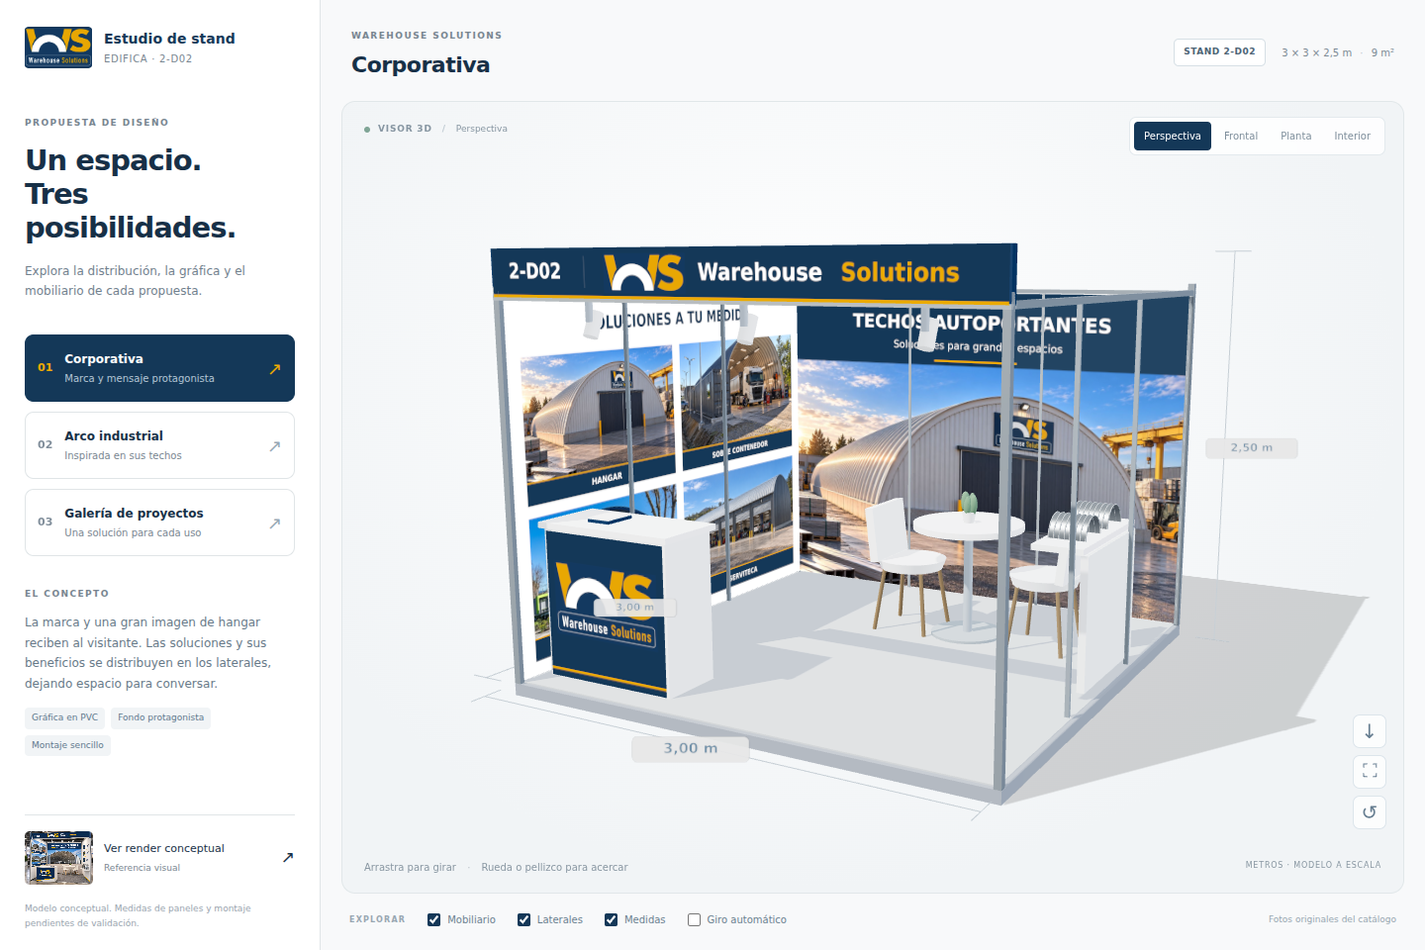
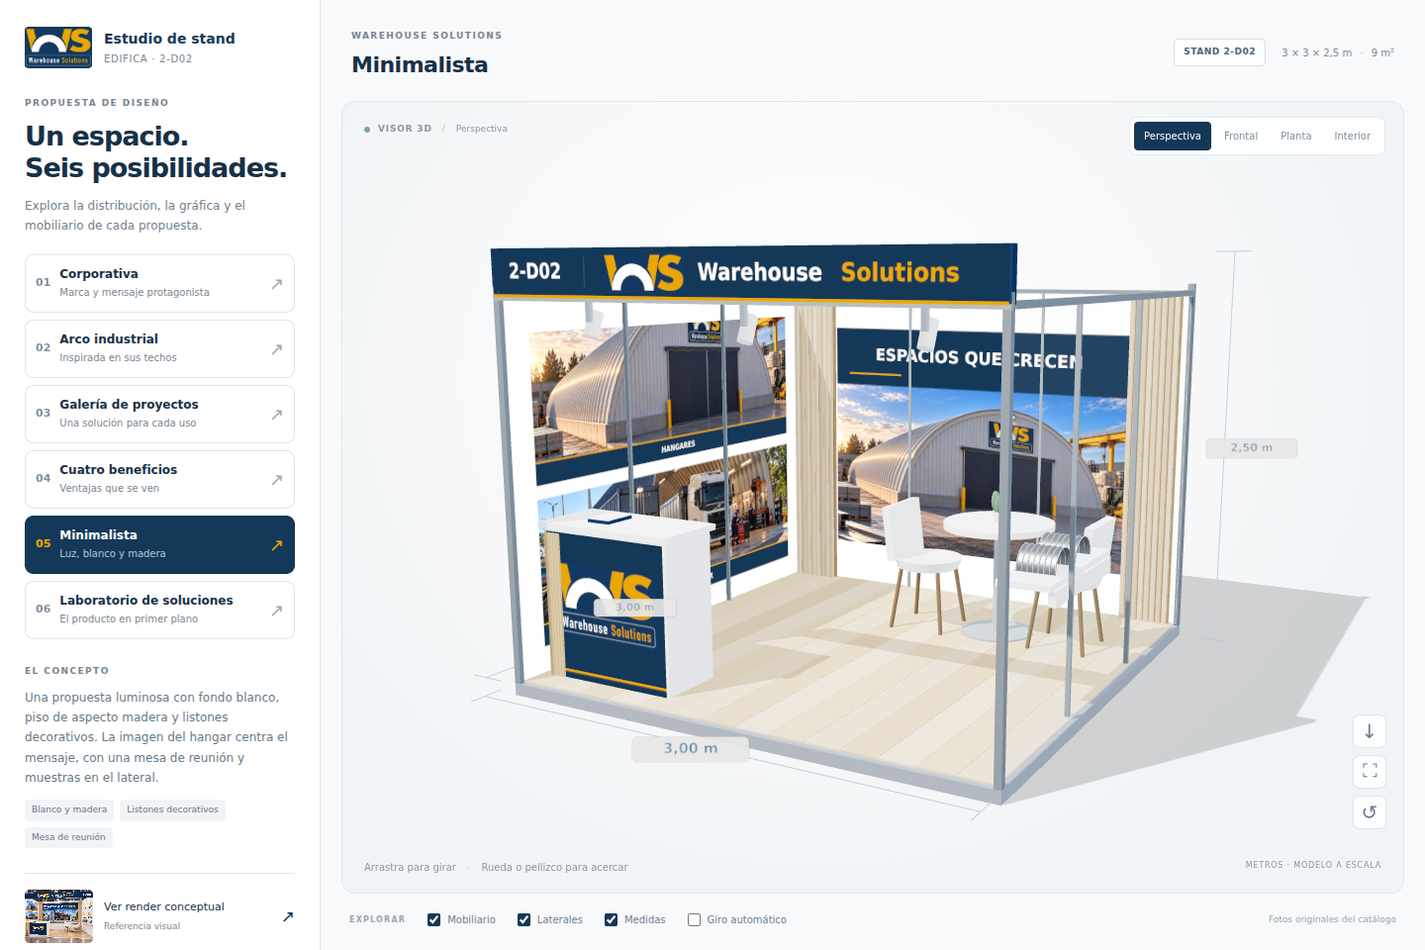
Añadir seis propuestas de stand con nuevos renders y modelos 3D

diff --git a/main.js b/main.js
@@ -1,6 +1,6 @@
 import * as THREE from 'three';
 import { OrbitControls } from './assets/vendor/OrbitControls.js';
-import { brand, photos, proposals } from './config.js';
+import { brand, photos, benefits, proposals } from './config.js?v=1.2';
 
 const $ = (id) => document.getElementById(id);
 const container = $('viewer');
@@ -64,7 +64,110 @@ function tile(ctx, photo, title, x, y, w, h) {
   ctx.fillStyle = YELLOW; ctx.fillRect(x, y + h - 76, w, 5);
   text(ctx, title, x + w / 2, y + h - 33, Math.min(31, w / 12), '#fff', 650, 'center');
 }
+function wrappedText(ctx, value, x, y, width, size, color, weight = 500) {
+  ctx.font = `${weight} ${size}px Arial, sans-serif`;
+  let line = '';
+  for (const word of value.split(' ')) {
+    const next = line ? `${line} ${word}` : word;
+    if (line && ctx.measureText(next).width > width) {
+      text(ctx, line, x, y, size, color, weight); y += size * 1.25; line = word;
+    } else line = next;
+  }
+  text(ctx, line, x, y, size, color, weight);
+  return y + size * 1.25;
+}
+function benefitIcon(ctx, kind, x, y, size) {
+  ctx.save(); ctx.translate(x, y); ctx.scale(size / 100, size / 100);
+  ctx.strokeStyle = YELLOW; ctx.fillStyle = YELLOW; ctx.lineWidth = 6;
+  ctx.lineJoin = 'round'; ctx.lineCap = 'round'; ctx.beginPath();
+  if (kind === 'bolt') {
+    ctx.moveTo(14,-48);ctx.lineTo(-32,9);ctx.lineTo(-6,9);ctx.lineTo(-20,49);ctx.lineTo(35,-12);ctx.lineTo(7,-12);ctx.closePath();ctx.fill();
+  } else if (kind === 'space') {
+    ctx.strokeRect(-39,-39,78,78);
+    [[-23,23],[0,0],[23,-23]].forEach(([a,b])=>ctx.strokeRect(a-5,b-5,10,10));
+  } else if (kind === 'shield') {
+    ctx.moveTo(0,-45);ctx.quadraticCurveTo(20,-29,39,-28);ctx.lineTo(36,9);ctx.quadraticCurveTo(27,31,0,48);ctx.quadraticCurveTo(-27,31,-36,9);ctx.lineTo(-39,-28);ctx.quadraticCurveTo(-20,-29,0,-45);ctx.stroke();
+    ctx.beginPath();ctx.moveTo(-15,0);ctx.lineTo(-2,15);ctx.lineTo(20,-12);ctx.stroke();
+  } else {
+    ctx.moveTo(-43,42);ctx.lineTo(-43,-8);ctx.lineTo(0,-43);ctx.lineTo(43,-8);ctx.lineTo(43,42);ctx.closePath();ctx.stroke();
+    ctx.strokeRect(-23,-9,46,14);ctx.strokeRect(-22,17,44,25);
+    ctx.beginPath();ctx.moveTo(0,42);ctx.lineTo(0,22);ctx.stroke();
+  }
+  ctx.restore();
+}
+function benefitGrid(ctx, {x=80,y=240,w=1440,h=620,dark=false}={}) {
+  const color = dark ? '#fff' : NAVY, cw = w / 2, ch = h / 2;
+  benefits.forEach((item,i)=>{
+    const left=x+(i%2)*cw, top=y+Math.floor(i/2)*ch;
+    benefitIcon(ctx,item.icon,left+75,top+65,86);
+    const after=wrappedText(ctx,item.title,left+145,top+40,cw-170,43,color,700);
+    wrappedText(ctx,item.detail,left+145,Math.max(after+12,top+142),cw-180,31,dark?'#cddce9':'#5d7587');
+  });
+  ctx.fillStyle=dark?'#ffffff30':'#d9e1e7';ctx.fillRect(x+cw,y+5,2,h-25);ctx.fillRect(x,y+ch-15,w,2);
+}
+function newGraphic(which) {
+  const dark = current !== 'minimalista';
+  const [c,ctx] = canvas(1600,1200,dark?NAVY:'#fff');
+  if(current==='beneficios') {
+    if(which==='back') {
+      cover(ctx,assetImages.hangar,670,0,930,1200);
+      const fade=ctx.createLinearGradient(620,0,1300,0);fade.addColorStop(0,NAVY);fade.addColorStop(1,'#14385800');ctx.fillStyle=fade;ctx.fillRect(620,0,700,1200);
+      text(ctx,'SOLUCIONES QUE CONSTRUYEN',75,110,47,'#fff',700);
+      benefits.forEach((item,i)=>{
+        const y=295+i*225;benefitIcon(ctx,item.icon,115,y,92);
+        text(ctx,item.title,205,y-20,45,'#fff',700);
+        wrappedText(ctx,item.detail,205,y+43,650,33,'#e3edf5');
+      });
+    } else if(which==='left') {
+      tile(ctx,'hangar','HANGARES',65,60,1470,510);
+      tile(ctx,'contenedor','SOBRE CONTENEDOR',65,620,1470,515);
+    } else {
+      text(ctx,'CUBIERTAS DEPORTIVAS',800,95,64,'#fff',700,'center');
+      cover(ctx,assetImages.cubierta,65,175,1470,650);
+      ctx.fillStyle=YELLOW;ctx.fillRect(65,825,1470,8);
+      text(ctx,'CONOCE NUESTRO MATERIAL',800,1110,46,'#fff',650,'center');
+    }
+  } else if(current==='minimalista') {
+    if(which==='back') {
+      ctx.fillStyle=NAVY;ctx.fillRect(195,145,1210,230);
+      text(ctx,'ESPACIOS QUE CRECEN',800,255,66,'#fff',700,'center');
+      ctx.fillStyle=YELLOW;ctx.fillRect(255,325,230,7);
+      cover(ctx,assetImages.hangar,195,375,1210,665);
+    } else if(which==='left') {
+      tile(ctx,'hangar','HANGARES',95,100,1410,485);
+      tile(ctx,'contenedor','SOBRE CONTENEDOR',95,630,1410,485);
+    } else {
+      text(ctx,'MÁS POSIBILIDADES',800,90,61,NAVY,700,'center');
+      benefitGrid(ctx,{x:70,y:185,w:1460,h:530});
+      ctx.fillStyle=YELLOW;ctx.fillRect(100,1070,1400,5);
+      text(ctx,'Soluciones a la medida de tu proyecto',800,1130,39,NAVY,450,'center');
+    }
+  } else {
+    if(which==='back') {
+      text(ctx,'INGENIERÍA A TU ALCANCE',800,115,74,'#fff',700,'center');
+      ctx.fillStyle=YELLOW;ctx.fillRect(420,188,760,6);
+      benefitGrid(ctx,{x:70,y:260,w:1460,h:585,dark:true});
+      // Esquema decorativo de módulos: no representa un plano constructivo.
+      ctx.strokeStyle='#7195b3';ctx.lineWidth=2;
+      for(let i=0;i<4;i++) {
+        const x=230+i*365;
+        for(let j=0;j<4;j++) {ctx.beginPath();ctx.moveTo(x-125+j*14,1135-j*14);ctx.lineTo(x-125+j*14,1030-j*14);ctx.ellipse(x+j*14,1030-j*14,125,120,0,Math.PI,Math.PI*2);ctx.lineTo(x+125+j*14,1135-j*14);ctx.stroke();}
+      }
+    } else if(which==='left') {
+      text(ctx,'DEL DISEÑO AL MONTAJE',800,100,68,'#fff',700,'center');
+      ctx.fillStyle=YELLOW;ctx.fillRect(90,172,1420,8);
+      ctx.beginPath();ctx.moveTo(0,1200);ctx.lineTo(1600,390);ctx.lineTo(1600,570);ctx.lineTo(330,1200);ctx.fill();
+      text(ctx,'MATERIALES Y TERMINACIONES',800,1105,47,'#fff',650,'center');
+    } else {
+      text(ctx,'GRANDES ESPACIOS',800,110,86,'#fff',700,'center');
+      cover(ctx,assetImages.hangar,65,220,1470,860);
+      ctx.fillStyle=YELLOW;ctx.fillRect(65,212,1470,8);
+    }
+  }
+  return texture(c);
+}
 function graphic(which) {
+  if(['beneficios','minimalista','laboratorio'].includes(current))return newGraphic(which);
   const [c, ctx] = canvas(1600, 1200, current === 'arco' ? NAVY : '#fff');
   if (which === 'back' && current === 'corporativa') {
     ctx.fillStyle = NAVY; ctx.fillRect(0, 0, 1600, 282);
@@ -161,6 +264,9 @@ function counter(parent, right = false) {
   if (current === 'arco') box(parent, .014, .87, .39, x + .437, .51, z, YELLOW);
   box(parent, .15, .018, .20, x-.12, .997, z, NAVY);
   box(parent, .15, .008, .20, x-.12, 1.01, z, '#fafafa');
+  if(current==='minimalista') {
+    for(let i=0;i<5;i++)box(parent,.016,.84,.014,x-.402+i*.021,.51,z+.218,'#c4a478');
+  }
 }
 function sample(parent, x, y, z, size = .40, rotation = 0) {
   const g = new THREE.Group(); g.position.set(x, y, z); g.rotation.y = rotation; parent.add(g);
@@ -195,6 +301,37 @@ function arch(parent) {
     box(parent,.018,1.21,.008,sign*1.36,.675,1.452,YELLOW);
   }
 }
+function woodDetails(parent) {
+  const colors=['#d5ba93','#d9bf9c','#ceb18b','#dec6a4'];
+  for(let i=0;i<14;i++)box(parent,.207,.008,2.94,-1.365+i*.21,.080,0,colors[i%4],{roughness:.9});
+  for(const sign of [-1,1]) {
+    box(parent,.33,2.13,.026,sign*1.275,1.155,-1.426,'#9f825e');
+    for(let i=0;i<8;i++)box(parent,.025,2.13,.035,sign*(1.132+i*.041),1.155,-1.397,colors[i%4]);
+  }
+}
+function wallScreen(parent, sign=1, z=-.32, width=.94, height=.52) {
+  box(parent,.048,height,width,sign*1.414,1.49,z,'#202a33');
+  const [c,ctx]=canvas(1200,675,NAVY);cover(ctx,assetImages[sign<0?'contenedor':'serviteca'],0,0,1200,675);
+  plane(parent,width-.05,height-.05,sign*1.386,1.49,z,texture(c),sign<0?Math.PI/2:-Math.PI/2);
+}
+function sampleShelf(parent, sign=1, y=.91, z=-.20, count=2) {
+  box(parent,.30,.035,.94,sign*1.27,y,z,'#fff');
+  box(parent,.044,.09,.86,sign*1.415,y-.06,z,'#f6f7f8');
+  for(let i=0;i<count;i++)sample(parent,sign*1.26,y+.023,z+(i-(count-1)/2)*.30,.24,Math.PI/2);
+}
+function laboratoryFurniture(parent) {
+  wallScreen(parent,-1,-.25,1.17,.66);
+  sampleShelf(parent,-1,.99,-.25,3);sampleShelf(parent,-1,.61,-.25,2);
+  const pedestal=new THREE.Group();pedestal.name='Pedestal de demostración';parent.add(pedestal);
+  box(pedestal,.95,.83,.70,-.60,.485,.04,NAVY);
+  box(pedestal,.956,.075,.706,-.60,.64,.04,YELLOW);
+  box(pedestal,1,.04,.75,-.60,.92,.04,'#fff');
+  sample(pedestal,-.60,.945,.04,.74);
+  // Banco compacto contra el fondo, bajo la gráfica.
+  box(parent,.84,.32,.42,.82,.265,-1.16,'#f6f7f8');
+  box(parent,.86,.105,.44,.82,.477,-1.16,NAVY);
+  box(parent,.86,.36,.065,.82,.65,-1.345,NAVY);
+}
 function disposeGroup(g) {
   if (!g) return;
   const geos = new Set(), mats = new Set(), maps = new Set();
@@ -227,6 +364,7 @@ function build() {
   // La envolvente completa incluyendo la tarima y cenefa mide 3 × 3 × 2,5 m.
   box(booth,3,.07,3,0,.035,0,'#89909a',{roughness:1});
   box(booth,2.94,.008,2.94,0,.074,0,'#b3b8bd',{roughness:1});
+  if(current==='minimalista')woodDetails(booth);
   box(booth,2.96,2.15,.028,0,1.155,-1.477,'#f4f5f6');
   plane(booth,2.94,2.14,0,1.155,-1.459,graphic('back'));
   for (const sign of [-1,1]) {
@@ -249,12 +387,18 @@ function build() {
     const lamp = cylinder(booth,.04,.04,.14,x,2.10,1.28,'#fff');lamp.rotation.x = -.40;
   }
   if (current === 'arco') arch(booth);
-  counter(furniture,current==='galeria');
-  if(current==='galeria') {
+  counter(furniture,['galeria','beneficios','laboratorio'].includes(current));
+  if(current==='laboratorio') {
+    laboratoryFurniture(furniture);
+  } else if(current==='beneficios') {
+    table(furniture,.29,-.79);chair(furniture,-.17,-.74,Math.PI/2);chair(furniture,.79,-.74,-Math.PI/2);
+    sampleShelf(furniture,1,.79,.05,2);
+  } else if(current==='minimalista') {
+    table(furniture,.52,-.72);chair(furniture,.05,-.66,Math.PI/2);chair(furniture,1,-.67,-Math.PI/2);
+    sampleShelf(furniture,1,.82,.26,2);
+  } else if(current==='galeria') {
     table(furniture,-.64,-.62);chair(furniture,-1.01,-.20,-.50,NAVY);chair(furniture,-.15,-.72,-2.05,NAVY);
-    const screen = box(furniture,.048,.52,.94,1.414,1.46,-.32,'#202a33');
-    const [c,ctx]=canvas(1200,675,NAVY);cover(ctx,assetImages.serviteca,0,0,1200,675);
-    plane(furniture,.89,.47,1.386,1.46,-.32,texture(c),-Math.PI/2);
+    wallScreen(furniture);
     box(furniture,.29,.032,1.12,1.28,.95,-.32,'#fff');
     for(let i=0;i<3;i++)sample(furniture,1.27,.97,-.65+i*.33,.23,-Math.PI/2);
   } else {

diff --git a/index.html b/index.html
@@ -4,20 +4,23 @@
   <meta charset="utf-8">
   <meta name="viewport" content="width=device-width, initial-scale=1">
   <meta name="theme-color" content="#143858">
-  <meta name="description" content="Explora en 3D tres propuestas para el stand 2-D02 de Warehouse Solutions en EDIFICA.">
+  <meta name="description" content="Explora en 3D seis propuestas para el stand 2-D02 de Warehouse Solutions en EDIFICA.">
   <title>Warehouse Solutions · Stand EDIFICA 3D</title>
   <link rel="icon" href="assets/logo.jpg">
-  <link rel="stylesheet" href="styles.css?v=1.1">
+  <link rel="stylesheet" href="styles.css?v=1.2">
   <script type="importmap">{"imports":{"three":"./assets/vendor/three.module.js"}}</script>
 </head>
 <body>
   <aside class="sidebar">
     <a class="brand" href="./" aria-label="Warehouse Solutions, inicio"><img src="assets/logo.jpg" alt="Warehouse Solutions"><span>Estudio de stand<small>EDIFICA · 2-D02</small></span></a>
-    <div class="intro"><span class="eyebrow">PROPUESTA DE DISEÑO</span><h1>Un espacio.<br>Tres posibilidades.</h1><p>Explora la distribución, la gráfica y el mobiliario de cada propuesta.</p></div>
+    <div class="intro"><span class="eyebrow">PROPUESTA DE DISEÑO</span><h1>Un espacio.<br>Seis posibilidades.</h1><p>Explora la distribución, la gráfica y el mobiliario de cada propuesta.</p></div>
     <nav class="proposals" aria-label="Propuestas de diseño">
       <button class="proposal active" data-proposal="corporativa" aria-pressed="true"><span class="number">01</span><span><strong>Corporativa</strong><small>Marca y mensaje protagonista</small></span><span class="arrow">↗</span></button>
       <button class="proposal" data-proposal="arco" aria-pressed="false"><span class="number">02</span><span><strong>Arco industrial</strong><small>Inspirada en sus techos</small></span><span class="arrow">↗</span></button>
       <button class="proposal" data-proposal="galeria" aria-pressed="false"><span class="number">03</span><span><strong>Galería de proyectos</strong><small>Una solución para cada uso</small></span><span class="arrow">↗</span></button>
+      <button class="proposal" data-proposal="beneficios" aria-pressed="false"><span class="number">04</span><span><strong>Cuatro beneficios</strong><small>Ventajas que se ven</small></span><span class="arrow">↗</span></button>
+      <button class="proposal" data-proposal="minimalista" aria-pressed="false"><span class="number">05</span><span><strong>Minimalista</strong><small>Luz, blanco y madera</small></span><span class="arrow">↗</span></button>
+      <button class="proposal" data-proposal="laboratorio" aria-pressed="false"><span class="number">06</span><span><strong>Laboratorio de soluciones</strong><small>El producto en primer plano</small></span><span class="arrow">↗</span></button>
     </nav>
     <section class="detail" aria-live="polite"><span class="eyebrow">EL CONCEPTO</span><p id="description"></p><div id="tags" class="tags"></div></section>
     <div class="sidebar-bottom"><button id="reference" class="reference"><img id="thumbnail" src="assets/concepts/corporativa.jpg" alt="Render conceptual de la propuesta"><span>Ver render conceptual<small>Referencia visual</small></span><span>↗</span></button><p class="note">Modelo conceptual. Medidas de paneles y montaje pendientes de validación.</p></div>
@@ -27,7 +30,7 @@
     <section id="viewer" class="viewer" aria-label="Modelo tridimensional del stand. Arrastra para girar y usa la rueda para acercar.">
       <div class="viewer-label"><span class="live-dot"></span> VISOR 3D <span class="divider">/</span><span id="view-name">Perspectiva</span></div>
       <div id="loading" class="loading"><span class="spinner"></span><strong>Preparando tu espacio</strong><span>Cargando el modelo y las gráficas…</span></div>
-      <div id="error" class="error" hidden><strong>Vista de referencia</strong><img id="fallback-image" src="assets/concepts/corporativa.jpg" alt="Propuesta corporativa del stand"><p id="error-message">Este navegador no permite mostrar gráficos 3D. Puedes explorar las tres propuestas mediante sus renders.</p><button onclick="location.reload()">Intentar vista 3D</button></div>
+      <div id="error" class="error" hidden><strong>Vista de referencia</strong><img id="fallback-image" src="assets/concepts/corporativa.jpg" alt="Propuesta corporativa del stand"><p id="error-message">Este navegador no permite mostrar gráficos 3D. Puedes explorar las seis propuestas mediante sus renders.</p><button onclick="location.reload()">Intentar vista 3D</button></div>
       <div class="view-controls" role="group" aria-label="Vistas de cámara"><button data-view="perspective" class="active" title="Vista en perspectiva">Perspectiva</button><button data-view="front">Frontal</button><button data-view="top">Planta</button><button data-view="inside">Interior</button></div>
       <div class="canvas-actions"><button id="capture" title="Guardar una imagen de la vista actual" aria-label="Guardar imagen">↓</button><button id="fullscreen" title="Pantalla completa" aria-label="Pantalla completa"><svg viewBox="0 0 24 24" width="17" height="17" fill="none" stroke="currentColor" stroke-width="1.5" aria-hidden="true"><path d="M8 3H3v5M16 3h5v5M3 16v5h5M21 16v5h-5"/></svg></button><button id="reset" title="Restablecer vista" aria-label="Restablecer vista">↺</button></div>
       <div class="viewer-footer"><span class="gesture">Arrastra para girar <b>·</b> Rueda o pellizco para acercar</span><span class="scale">METROS · MODELO A ESCALA</span></div>
@@ -36,6 +39,6 @@
   </main>
   <dialog id="reference-modal"><div class="modal-header"><div><span class="eyebrow">REFERENCIA VISUAL</span><h3 id="modal-title">Corporativa</h3></div><button id="close-modal" aria-label="Cerrar referencia">×</button></div><img id="reference-image" src="assets/concepts/corporativa.jpg" alt="Render conceptual"><p>Render ilustrativo. El modelo 3D utiliza las fotografías originales entregadas por Warehouse Solutions. El mobiliario es una propuesta.</p></dialog>
   <script>window.addEventListener('error', function(e){if(e.filename && /main|three|Orbit/.test(e.filename)){document.getElementById('loading').hidden=true;document.getElementById('error').hidden=false;document.getElementById('error-message').textContent='No se pudo iniciar el modelo. Abre el proyecto mediante GitHub Pages o un servidor local.';}});</script>
-  <script type="module" src="main.js?v=1.1"></script>
+  <script type="module" src="main.js?v=1.2"></script>
 </body>
 </html>

diff --git a/config.js b/config.js
@@ -8,6 +8,13 @@ export const photos = {
   cubierta: 'assets/photos/cubierta.jpg', serviteca: 'assets/photos/serviteca.jpg',
   cabana: 'assets/photos/cabana.jpg',
 };
+// Textos de la última referencia facilitada por el cliente.
+export const benefits = [
+  { icon: 'bolt', title: 'MONTAJE RÁPIDO', detail: 'Instalación en menos de 2 semanas.' },
+  { icon: 'space', title: 'LUZ LIBRE TOTAL', detail: 'Sin columnas interiores.' },
+  { icon: 'shield', title: 'ALTA RESISTENCIA', detail: 'Acero galvanizado 1,2 mm.' },
+  { icon: 'modular', title: 'DISEÑO MODULAR', detail: 'Ampliaciones según requerimiento.' },
+];
 export const proposals = {
   corporativa: {
     title: 'Corporativa', description: 'La marca y una gran imagen de hangar reciben al visitante. Las soluciones y sus beneficios se distribuyen en los laterales, dejando espacio para conversar.',
@@ -23,5 +30,20 @@ export const proposals = {
     title: 'Galería de proyectos', description: 'Cuatro aplicaciones se presentan como una galería. Un lateral introduce casas, cabañas y refugios; el otro incorpora una pantalla y muestras del material.',
     tags: ['Cuatro soluciones', 'Pantalla', 'Nuevos desarrollos'],
     render: 'assets/concepts/galeria.jpg',
+  },
+  beneficios: {
+    title: 'Cuatro beneficios', description: 'Los cuatro beneficios de la última referencia comparten el fondo con una gran imagen de hangar. La recepción se sitúa a la derecha y los laterales presentan aplicaciones y muestras.',
+    tags: ['Cuatro beneficios', 'Recepción lateral', 'Gráfica en PVC'],
+    render: 'assets/concepts/beneficios.jpg',
+  },
+  minimalista: {
+    title: 'Minimalista', description: 'Una propuesta luminosa con fondo blanco, piso de aspecto madera y listones decorativos. La imagen del hangar centra el mensaje, con una mesa de reunión y muestras en el lateral.',
+    tags: ['Blanco y madera', 'Listones decorativos', 'Mesa de reunión'],
+    render: 'assets/concepts/minimalista.jpg',
+  },
+  laboratorio: {
+    title: 'Laboratorio de soluciones', description: 'Una maqueta de cubierta sobre un pedestal invita a descubrir el sistema. La pantalla y las muestras explican el producto, acompañadas por los cuatro beneficios y un banco de espera.',
+    tags: ['Maqueta protagonista', 'Pantalla y muestras', 'Banco de espera'],
+    render: 'assets/concepts/laboratorio.jpg',
   },
 };

diff --git a/styles.css b/styles.css
@@ -5,3 +5,19 @@
 .proposal{transition:border-color .15s}
 
 .error img{width:85%;height:65%;object-fit:contain;border-radius:8px;margin-top:12px}.error p{max-width:440px}.no-webgl .view-controls,.no-webgl .canvas-actions,.no-webgl .viewer-footer{display:none}.no-webgl .viewer-label{z-index:7}.error{padding:56px 20px 20px;gap:0}@media(max-width:760px){.error{padding:52px 12px 20px}.error img{width:100%;height:63%}.error p{font-size:10px}.error strong{font-size:12px}}
+
+/* Seis propuestas: navegación compacta y desplazamiento independiente en escritorio. */
+.sidebar{height:100dvh;overflow-y:auto;scrollbar-width:thin}
+.intro{margin:23px 0 18px}.intro h1{font-size:27px;margin:9px 0 12px}.intro p{margin:0}
+.proposals{gap:7px}.proposal{padding:11px 10px;min-height:59px;gap:9px}
+.proposal>span:nth-child(2){min-width:0}.proposal strong{line-height:1.35}
+.detail{margin:20px 0}.detail p{margin:8px 0 12px}.sidebar-bottom{padding-top:5px}
+@media(max-width:760px){
+  body{display:flex;flex-direction:column;height:100dvh}
+  .sidebar{height:auto;overflow:visible;padding:12px 14px;flex:none}
+  .proposals{grid-template-columns:repeat(3,minmax(0,1fr));margin-top:12px;gap:6px}
+  .proposal{padding:8px 7px;gap:5px;min-height:48px}
+  .proposal strong{font-size:10px}.workspace{height:auto;min-height:510px;flex:1}
+  .topbar{gap:10px}.topbar h2{font-size:17px;max-width:210px;line-height:1.25}
+  .project-info{flex:none}
+}

diff --git a/README.md b/README.md
@@ -1,10 +1,10 @@
 # Warehouse Solutions · Stand EDIFICA 3D
 
-Visor web interactivo para presentar tres propuestas del stand **2-D02**, con una envolvente nominal de **3 × 3 × 2,5 m**. Publicado en [GitHub Pages](https://xaulosky.github.io/stand3d/). No necesita Node, instalación de paquetes, backend ni claves de API. Three.js y OrbitControls están incluidos en el proyecto; no se cargan desde un CDN.
+Visor web interactivo para presentar seis propuestas del stand **2-D02**, con una envolvente nominal de **3 × 3 × 2,5 m**. Publicado en [GitHub Pages](https://xaulosky.github.io/stand3d/). No necesita Node, instalación de paquetes, backend ni claves de API. Three.js y OrbitControls están incluidos en el proyecto; no se cargan desde un CDN.
 
 ## Qué incluye
 
-- Tres modelos: Corporativa, Arco industrial y Galería de proyectos.
+- Seis modelos: Corporativa, Arco industrial, Galería de proyectos, Cuatro beneficios, Minimalista y Laboratorio de soluciones.
 - Giro, zoom y desplazamiento mediante mouse o pantalla táctil.
 - Vistas en perspectiva, frontal, planta e interior.
 - Controles para mostrar mobiliario, laterales, dimensiones y giro automático.
@@ -12,8 +12,18 @@ Visor web interactivo para presentar tres propuestas del stand **2-D02**, con un
 - Render conceptual de referencia para cada alternativa.
 - Logo original y fotografías extraídas del Excel entregado por el cliente.
 - Diseño adaptable a computador, tablet y celular.
-- Enlaces directos a propuestas mediante `?propuesta=corporativa`, `?propuesta=arco` o `?propuesta=galeria`.
+- Enlaces directos mediante `?propuesta=` seguido de `corporativa`, `arco`, `galeria`, `beneficios`, `minimalista` o `laboratorio`.
 - Vista de renders cuando el navegador no puede inicializar los gráficos 3D.
+
+## Nuevas alternativas
+
+| Propuesta | Distribución y elementos |
+| --- | --- |
+| Cuatro beneficios | Fondo con los cuatro mensajes de la última referencia, recepción a la derecha, mesa y muestras. |
+| Minimalista | Blanco, piso de aspecto madera, listones, recepción a la izquierda y mesa de reunión. |
+| Laboratorio de soluciones | Pedestal con maqueta, pantalla y muestras a la izquierda, banco al fondo y recepción a la derecha. |
+
+Los textos de beneficios se centralizan en `config.js` y siguen la última imagen entregada: instalación en menos de 2 semanas, sin columnas interiores, acero galvanizado de 1,2 mm y ampliaciones según requerimiento. Son mensajes facilitados por el cliente, pendientes de su validación final para impresión.
 
 ## Subir a GitHub Pages
 
@@ -62,7 +72,7 @@ Abre `http://localhost:8000`. En algunos equipos el comando es `python3` o `py`.
 | `assets/stand-original.jpg` | Referencia de la estructura modular entregada. |
 | `assets/vendor/` | Dependencias locales y licencia MIT de Three.js 0.170.0. |
 
-Los paneles se generan como texturas con Canvas a partir de las fotos y textos; no son archivos preparados para impresión. El arco se modela como un marco decorativo plano. La pantalla de la galería muestra una imagen fija; no reproduce un video. No hay captura de datos, analítica ni conexiones a servicios externos.
+Los paneles se generan como texturas con Canvas a partir de las fotos y textos; no son archivos preparados para impresión. El arco se modela como un marco decorativo plano. Las pantallas de Galería y Laboratorio muestran imágenes fijas; no reproducen un video. Los listones, piso de aspecto madera, banco y pedestal se modelan con volumen. La cubierta del pedestal es una maqueta simplificada. No hay captura de datos, analítica ni conexiones a servicios externos.
 
 Las caras exteriores de los laterales se representan atenuadas para poder explorar el interior al girar el modelo. La gráfica interior permanece opaca. El control Laterales permite retirar esas paredes por completo para revisar la distribución.
 
@@ -78,4 +88,4 @@ Three.js y OrbitControls: licencia MIT, incluida en `assets/vendor/THREE-LICENSE
 
 ## Verificación de esta entrega
 
-Comprobado en Chromium con WebGL: tres propuestas, carga desde una subcarpeta, recursos locales sin peticiones externas, enlaces directos, controles de visibilidad, cambios de cámara, giro con mouse, modal de referencia y descarga PNG. Revisado en formatos de escritorio y celular. El mobiliario está dentro de la planta de 3 × 3 m. Despliegue automático en GitHub Pages mediante Actions.
+Comprobado en Chromium con WebGL: seis propuestas, carga desde una subcarpeta, recursos locales sin peticiones externas, enlaces directos, controles de visibilidad, cambios de cámara, giro con mouse, modal de referencia y descarga PNG. Revisado en formatos de escritorio y celular. El mobiliario está dentro de la planta de 3 × 3 m. Despliegue automático en GitHub Pages mediante Actions.
